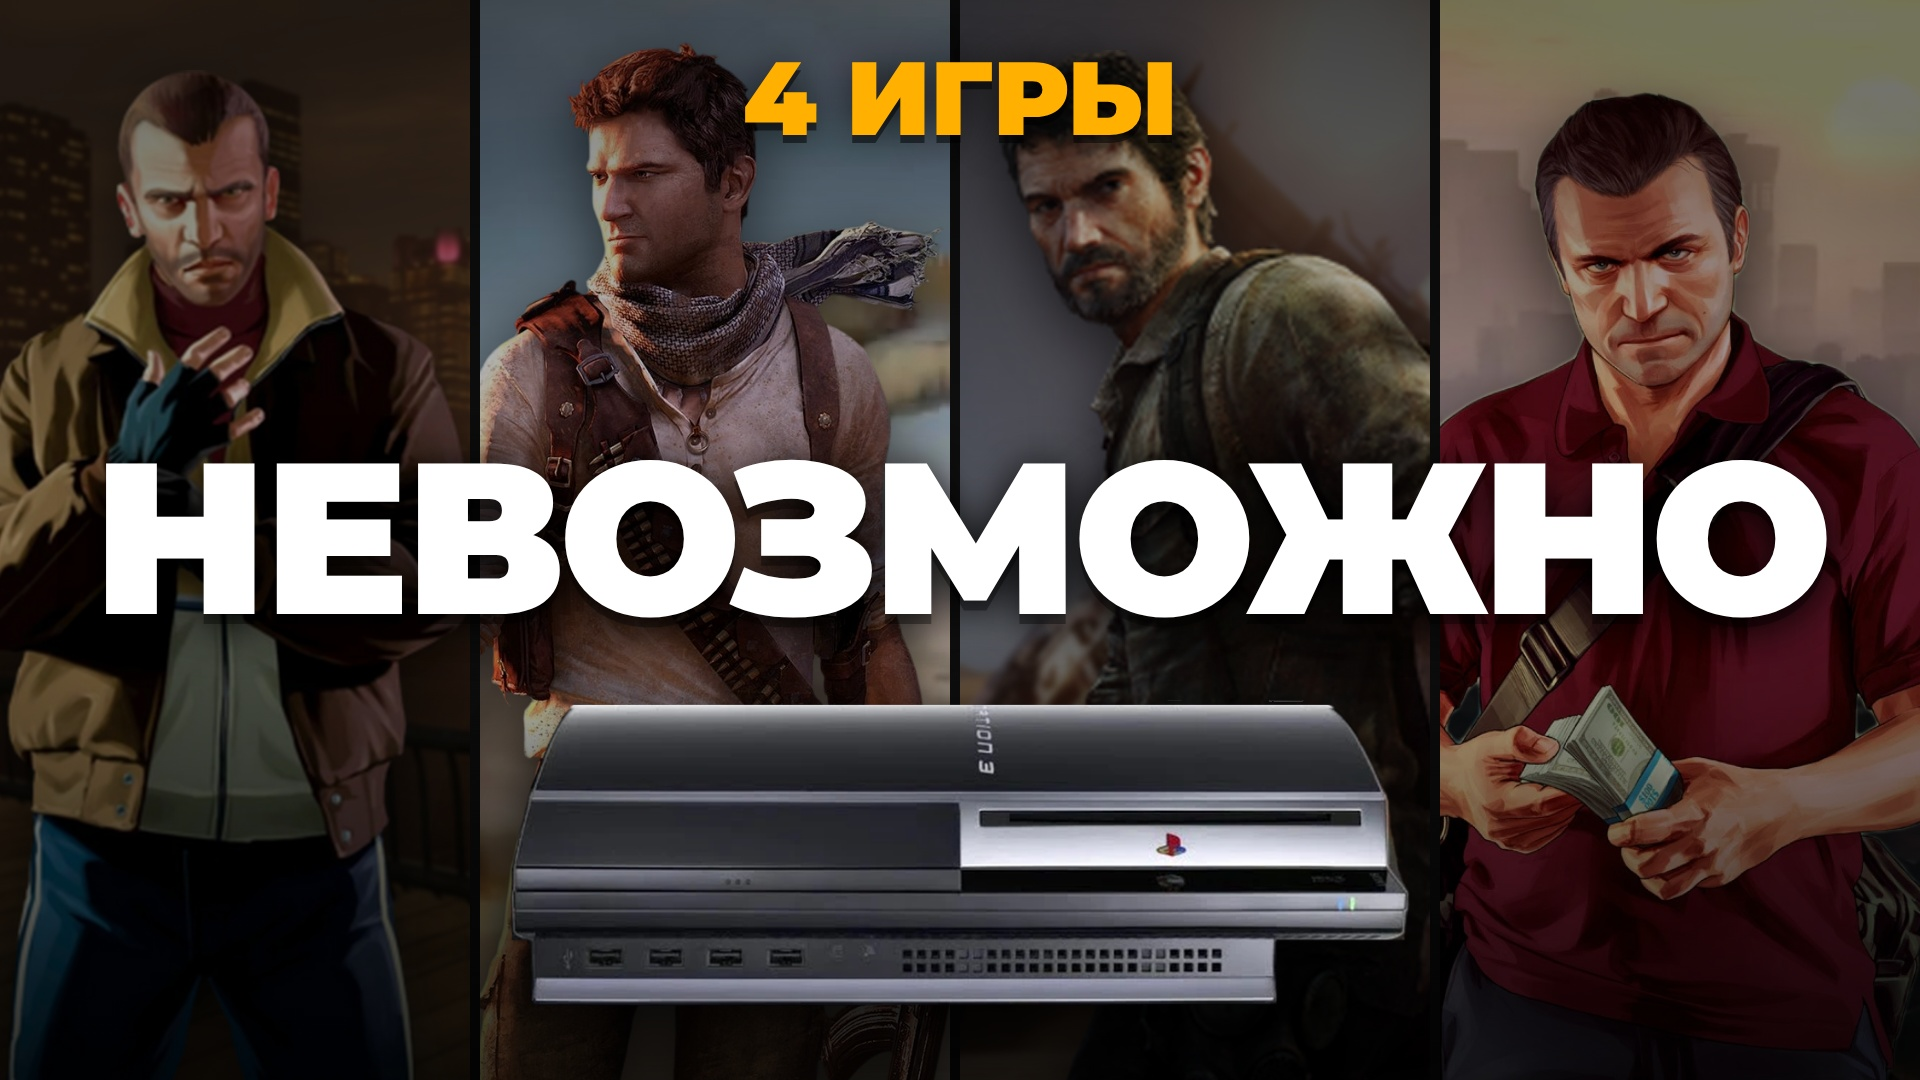
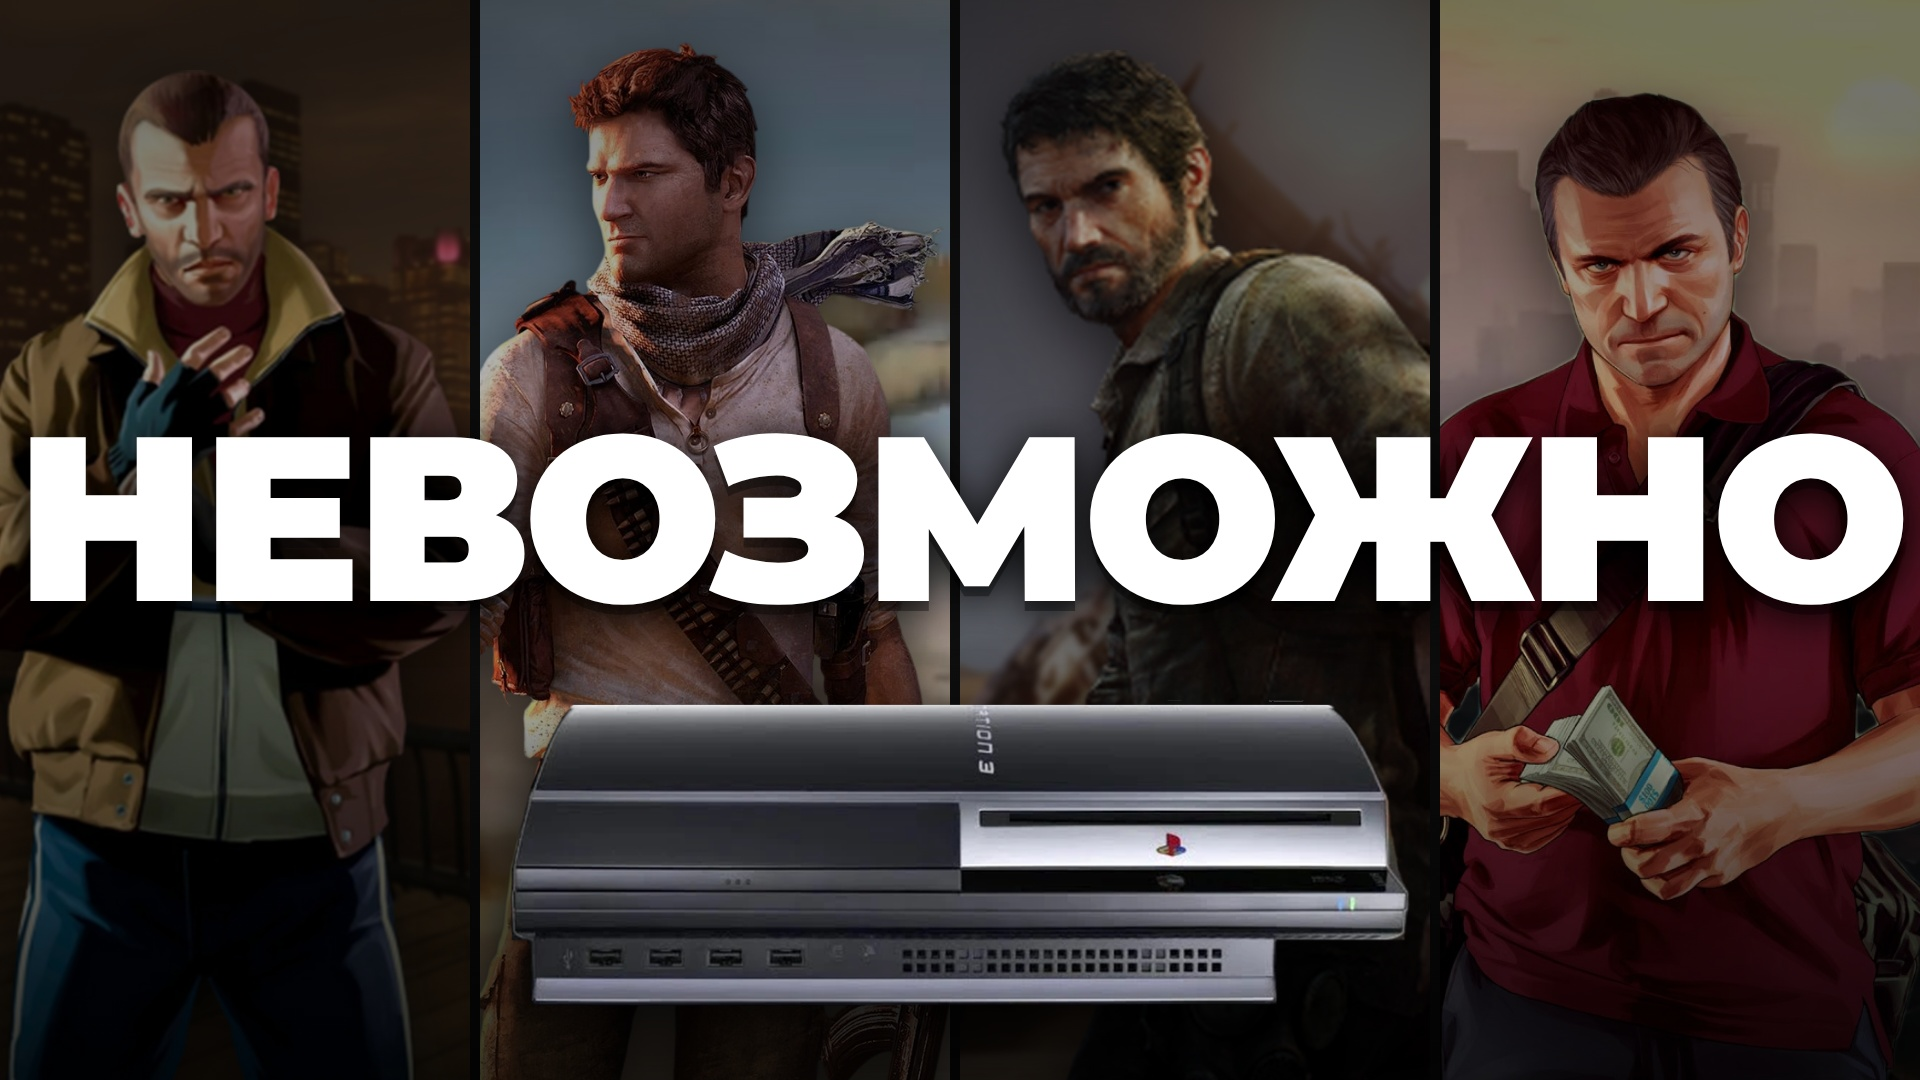
All 4 games thumbnails: remove label, larger title
Claude-Session: https://claude.ai/code/session_01RHFrx85Hg5RpkQEmnVQQfw

Changed region(s): [[0.0, 0.3667, 1.0, 0.5806], [0.375, 0.0306, 0.625, 0.1528]]

diff --git a/all4/thumb/thumb.html b/all4/thumb/thumb.html
@@ -16,8 +16,8 @@ html,body{width:1920px;height:1080px;overflow:hidden;background:#111;font-family
 <div class="p" style="left:960px;width:480px"><div class="bg" style="background-image:url(/gta4_ps3/tlou/assets/uc3_scene.jpg);filter:blur(3px) brightness(.55) saturate(.8)"></div><img class="ch" src="/gta4_ps3/tlou/assets/joel.png" style="height:1150px;left:-170px;top:50px"></div>
 <div class="p" style="left:1440px;width:480px;border:0"><div class="bg" style="background-image:url(/gta5_new/assets/los_santos_haze.jpg)"></div><img class="ch" src="/gta5_new/assets/michael.png" style="height:1150px;left:-150px;top:90px"></div>
 <div class="shade"></div>
-<div class="nm" id="nm">GTA 4 · UNCHARTED 3 · THE LAST OF US · GTA 5</div>
+<div class="nm" id="nm" style="display:none"></div>
 <div class="t" id="t" style="top:430px;font-size:230px">НЕВОЗМОЖНО</div>
 <img class="ps" src="/gta4_ps3/assets/ps3_fat_flat.png" style="top:700px;width:900px">
-<script>const q=new URLSearchParams(location.search);if(q.get('t')){const t=document.getElementById('t');t.innerHTML=q.get('t');if(q.get('s'))t.style.fontSize=q.get('s')+'px';if(q.get('y'))t.style.top=q.get('y')+'px';}if(q.get('n'))document.getElementById('nm').textContent=q.get('n');</script>
+<script>const q=new URLSearchParams(location.search);if(q.get('t')){const t=document.getElementById('t');t.innerHTML=q.get('t');if(q.get('s'))t.style.fontSize=q.get('s')+'px';if(q.get('y'))t.style.top=q.get('y')+'px';}</script>
 </body></html>
